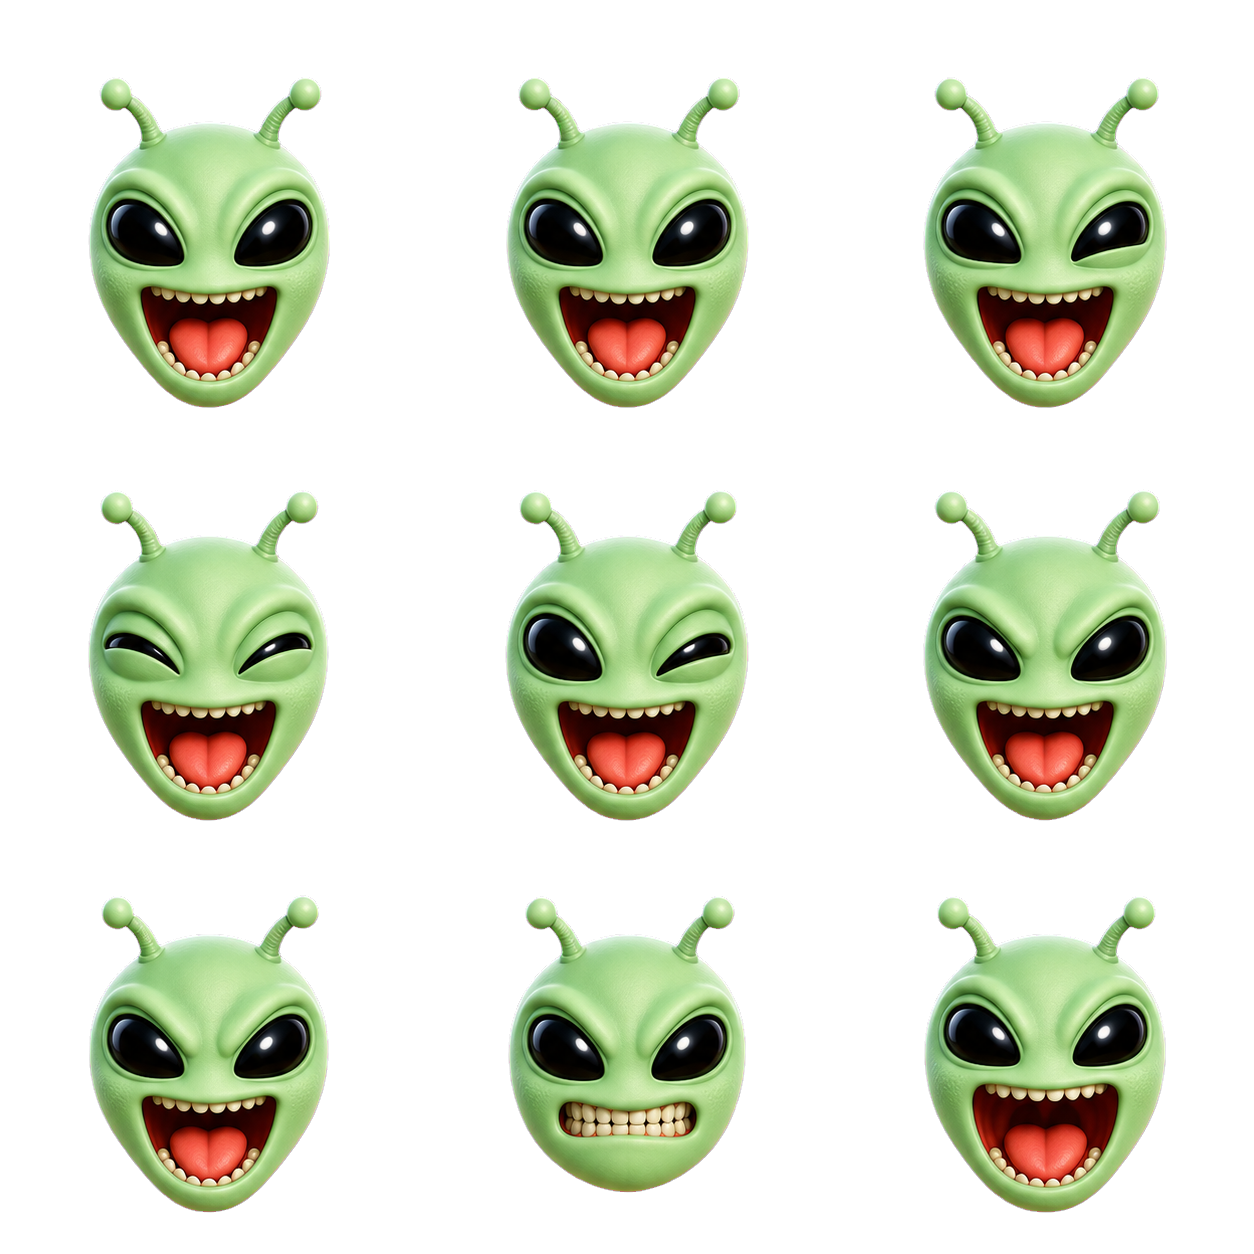
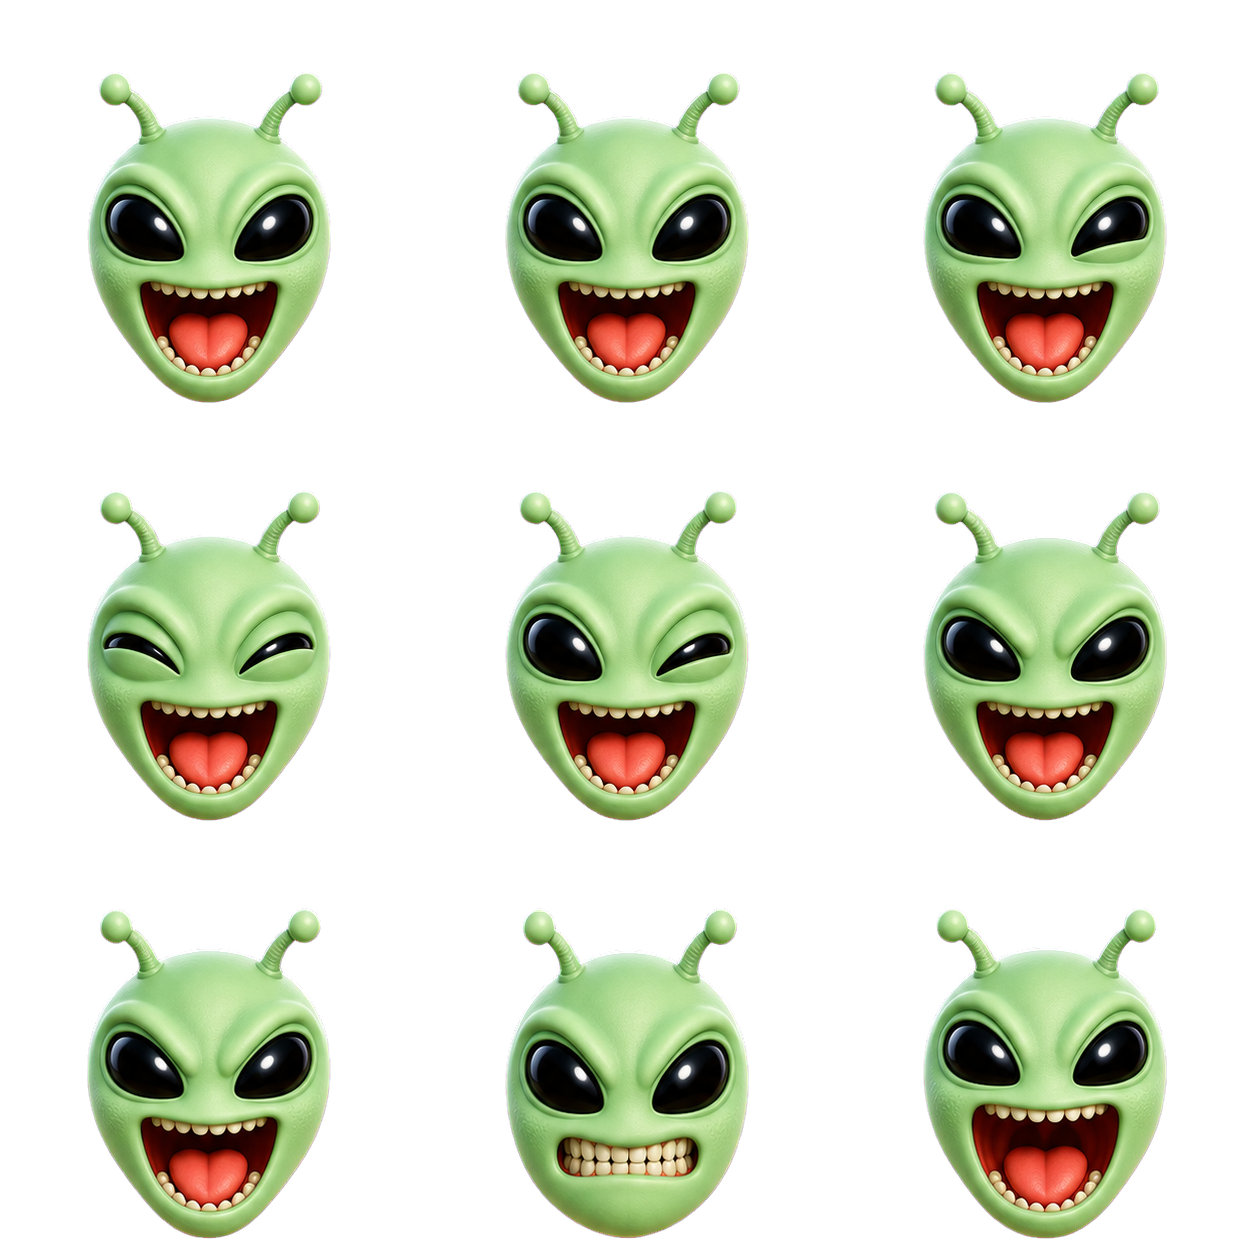
Stabilize Alien animation for v12

diff --git a/index.html b/index.html
@@ -9,7 +9,7 @@
     <title>Bite Me</title>
     <link rel="manifest" href="manifest.webmanifest" />
     <link rel="icon" href="assets/app-icon.svg" type="image/svg+xml" />
-    <link rel="stylesheet" href="styles.css?v=11" />
+    <link rel="stylesheet" href="styles.css?v=12" />
   </head>
   <body>
     <main class="game-shell">
@@ -143,6 +143,6 @@
       </section>
     </main>
 
-    <script src="game.js?v=11"></script>
+    <script src="game.js?v=12"></script>
   </body>
 </html>

diff --git a/game.js b/game.js
@@ -135,7 +135,7 @@ const avatars = {
   alien: {
     label: "Alien",
     sprite: true,
-    atlas: "assets/alien/alien-3x3-hd.png?v=11",
+    atlas: "assets/alien/alien-3x3-hd.png?v=12",
     unlockAt: 9600,
     multiplier: 1.75,
     floor: 900,

diff --git a/sw.js b/sw.js
@@ -1,4 +1,4 @@
-const CACHE_NAME = "bite-me-v11";
+const CACHE_NAME = "bite-me-v12";
 const CACHE_FILES = [
   "./",
   "./index.html",